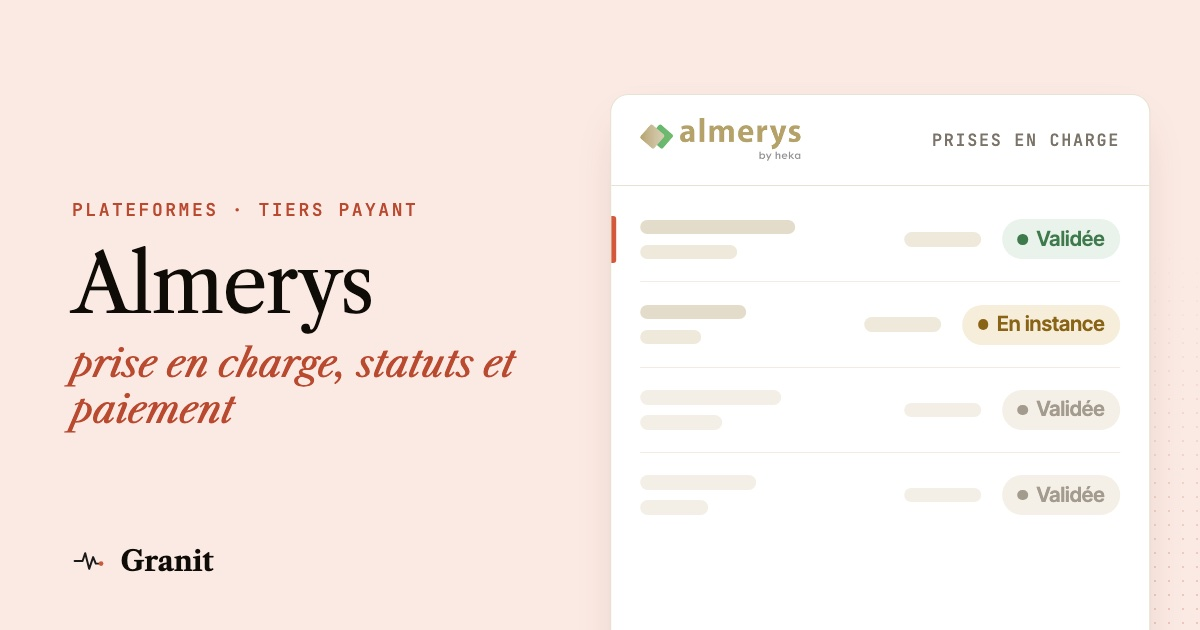
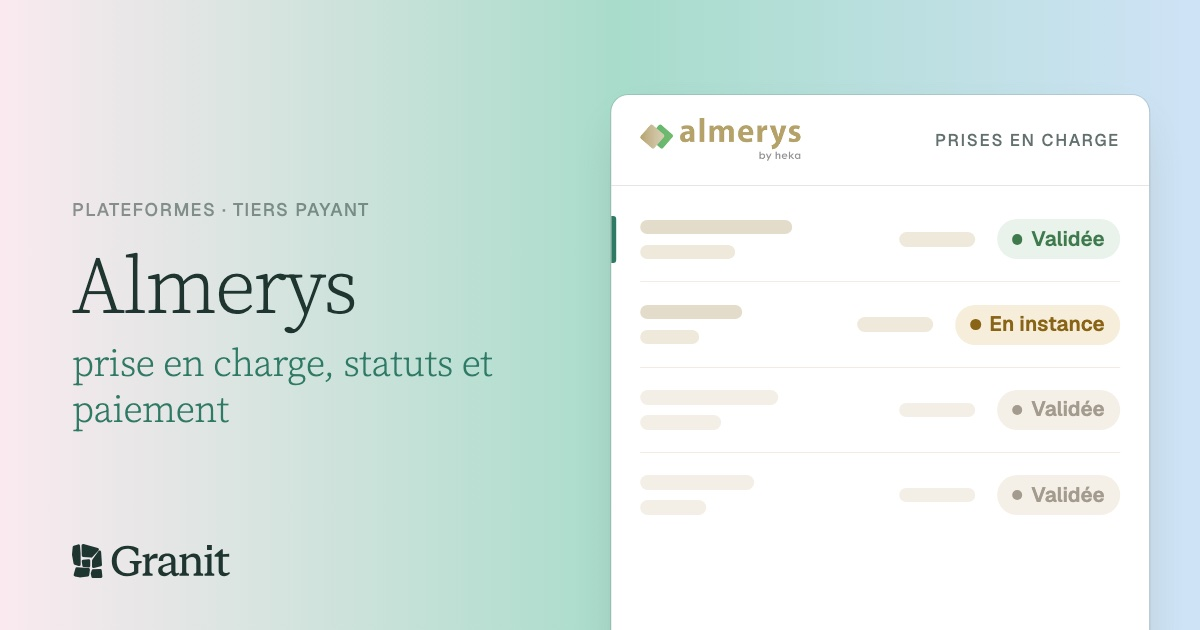
Marque : générateurs, démo et fichiers hors React (bascule 5/5) (#99)
* Marque : jetons, polices, logo et favicon (bascule 1/5)

- styles.css : jetons de DESIGN.md (couleurs, ombres teintées encre, rayons),
  neutres corrigés à leur définition (--bg rosé, --bg2 lavis, --text-muted 70 %,
  --border2 filet-champ…), Source Serif 4 (opsz 20) et Geist, --font-mono sur Geist
  avec chiffres tabulaires, classes de marque (.btn-primary encre et menthe, .eyebrow,
  .accent-italic sans italique, .h1-hero et .h2-section en 300), ombres Tailwind
  et couleurs shadcn sur la marque.
- Alias de transition pour les anciennes variables (--terra*, --sage*, --tag-bg,
  --gradient-terra, --shadow-*), supprimés en fin de bascule.
- CSS mort retiré (.hand, .underline-terra, .glass*, .shimmer, .mesh-bg, .grain,
  .marquee, .btn-ghost, .float-slow, .mark-terra, --gradient-mesh, --dark, --font-hand).
- Logos, favicon, icônes, image de partage et tuile de signature copiés tels quels
  depuis internal/marque.
- __root.tsx : une seule feuille Google Fonts (Geist + Source Serif 4), favicon et
  icônes, og:image et twitter:image sur l'image de partage de la marque.
- DESIGN.md : report du jeton filet-champ (internal a763cc7).

* Marque : générateurs, démo et fichiers hors React

- public/demo.html : jetons DESIGN.md dans son :root (rosé, papier, filet, encre,
  profond, succès, attente lavis + encre, alerte), Geist seule, logo granit-logo.svg
  copié tel quel à la place du monogramme et du nom tapé.
[…]

diff --git a/public/demo.html b/public/demo.html
@@ -6,25 +6,30 @@
 <meta name="robots" content="noindex">
 <title>Granit AI</title>
 <link rel="preconnect" href="https://fonts.googleapis.com">
-<link href="https://fonts.googleapis.com/css2?family=Inter+Tight:wght@400;500;600;700&family=JetBrains+Mono:wght@400;500&family=Libre+Caslon+Text:wght@400;700&display=swap" rel="stylesheet">
+<link rel="preconnect" href="https://fonts.gstatic.com" crossorigin>
+<link href="https://fonts.googleapis.com/css2?family=Geist:wght@400;500;600&display=swap" rel="stylesheet">
 <style>
 *,*::before,*::after{box-sizing:border-box;margin:0;padding:0;}
 :root{
-  --bg:#f7f3ec;--surface:#ffffff;--border:#e8e2d3;
-  --text:#0f0c08;--text2:#3a342d;--text3:#7a7368;--accent:#d4583a;
-  --blue:#c0503a;--blue-bg:#fbe8e0;--blue-b:#f0c8ba;
-  --green:#4f8a5f;--green-bg:#e4efe6;--green-b:#c3ddc9;
-  --amber:#b7791f;--amber-bg:#f7efdd;--amber-b:#e8d5a6;
-  --red:#c0392b;--red-bg:#faeae7;--red-b:#eec6bf;
-  --mono:'JetBrains Mono',ui-monospace,monospace;--sans:'Inter Tight',system-ui,sans-serif;
+  /* Jetons de DESIGN.md (marque Granit). Les noms historiques restent, leur valeur suit le rôle. */
+  --bg:#FAF0F2;--surface:#FFFDFD;--border:rgba(31,53,48,.12);
+  --text:#1F3530;--text2:rgba(31,53,48,.70);--text3:rgba(31,53,48,.50);--accent:#2F7A64;
+  /* « blue » = l'accent de la démo (activité en cours, sélection) : vert profond, pastille succès-fond */
+  --blue:#2F7A64;--blue-bg:rgba(168,220,203,.60);--blue-b:#A8DCCB;
+  /* succès : forme profond, pastille succès-fond + succès-texte */
+  --green:#2F7A64;--green-t:#1D5646;--green-bg:rgba(168,220,203,.60);--green-b:#A8DCCB;
+  /* en attente : lavis + encre (cas 3) */
+  --amber:#1F3530;--amber-bg:#F4EEF0;--amber-b:rgba(31,53,48,.20);
+  /* erreur : bordure alerte, texte alerte-texte */
+  --red:#A9433D;--red-bg:#FAEAEF;--red-b:#C8504A;
+  --mono:"Geist",system-ui,-apple-system,"Segoe UI",sans-serif;--sans:"Geist",system-ui,-apple-system,"Segoe UI",sans-serif;
 }
 *,*::before,*::after{box-sizing:border-box;margin:0;padding:0;}
-body{font-family:var(--sans);background:var(--bg);color:var(--text);font-size:13px;height:100vh;overflow:hidden;display:flex;flex-direction:column;-webkit-font-smoothing:antialiased;}
+body{font-family:var(--sans);font-variant-numeric:tabular-nums;background:var(--bg);color:var(--text);font-size:13px;height:100vh;overflow:hidden;display:flex;flex-direction:column;-webkit-font-smoothing:antialiased;}
 
 header{height:52px;background:var(--surface);border-bottom:1px solid var(--border);display:flex;align-items:center;padding:0 20px;gap:14px;flex-shrink:0;}
-.logo{font-family:'Libre Caslon Text','Times New Roman',serif;font-size:19px;font-weight:700;color:var(--text);letter-spacing:-.01em;display:flex;align-items:center;gap:9px;}
-.logo-mark{width:28px;height:26px;display:flex;align-items:center;justify-content:center;}
-.logo-mark svg{width:28px;height:auto;}
+.logo{display:flex;align-items:center;}
+.logo svg{display:block;height:24px;width:auto;}
 .hdiv{width:1px;height:16px;background:var(--border);}
 .client-tag{font-size:12px;color:var(--text2);font-family:var(--mono);}
 
@@ -46,8 +51,8 @@ nav{width:210px;flex-shrink:0;background:var(--surface);border-right:1px solid v
 .nlbl{flex:1;font-size:12.5px;font-weight:500;color:var(--text);}
 .ni.active .nlbl{color:var(--blue);}
 .nc{font-family:var(--mono);font-size:10px;font-weight:500;padding:2px 6px;border-radius:4px;}
-.nc.b{background:var(--blue-bg);color:var(--blue);}
-.nc.g{background:var(--green-bg);color:var(--green);}
+.nc.b{background:var(--blue-bg);color:var(--green-t);}
+.nc.g{background:var(--green-bg);color:var(--green-t);}
 .nc.a{background:var(--amber-bg);color:var(--amber);}
 
 .content{flex:1;overflow:hidden;display:flex;flex-direction:column;}
@@ -58,7 +63,7 @@ nav{width:210px;flex-shrink:0;background:var(--surface);border-right:1px solid v
 .ahead{background:var(--surface);border-bottom:1px solid var(--border);padding:11px 20px;display:flex;align-items:center;gap:11px;flex-shrink:0;}
 .aicon{width:30px;height:30px;border-radius:6px;background:var(--bg);border:1px solid var(--border);display:flex;align-items:center;justify-content:center;color:var(--text2);flex-shrink:0;}
 .atitle{font-size:14px;font-weight:600;color:var(--text);}
-.adesc{font-size:11px;color:var(--text3);font-family:var(--mono);margin-top:1px;}
+.adesc{font-size:11px;color:var(--text2);font-family:var(--mono);margin-top:1px;}
 .aright{margin-left:auto;display:flex;align-items:center;gap:7px;}
 .stag{display:flex;align-items:center;gap:5px;font-family:var(--mono);font-size:11px;padding:3px 9px;border-radius:4px;border:1px solid;}
 .stag.r{color:var(--blue);background:var(--blue-bg);border-color:var(--blue-b);}
@@ -71,24 +76,24 @@ nav{width:210px;flex-shrink:0;background:var(--surface);border-right:1px solid v
 .klbl{font-family:var(--mono);font-size:10px;color:var(--text3);letter-spacing:.05em;text-transform:uppercase;margin-bottom:5px;}
 .kv{font-family:var(--mono);font-size:19px;font-weight:500;letter-spacing:-.02em;color:var(--text);}
 .kv.b{color:var(--blue);}.kv.g{color:var(--green);}.kv.a{color:var(--amber);}
-.kd{font-size:11px;color:var(--text3);margin-top:3px;}
+.kd{font-size:11px;color:var(--text2);margin-top:3px;}
 .kd.up{color:var(--green);}.kd.dn{color:var(--red);}
 
 .tbar{background:var(--surface);border-bottom:1px solid var(--border);padding:9px 20px;display:flex;align-items:center;justify-content:space-between;flex-shrink:0;}
 .tbar-t{font-family:var(--mono);font-size:10px;color:var(--text3);letter-spacing:.1em;text-transform:uppercase;}
-.tbar-r{font-family:var(--mono);font-size:11px;color:var(--text3);}
-.tbar-r b{color:var(--text2);font-weight:500;}
+.tbar-r{font-family:var(--mono);font-size:11px;color:var(--text2);}
+.tbar-r b{color:var(--text);font-weight:500;}
 
 .tarea{flex:1;overflow-y:auto;}
 table{width:100%;border-collapse:collapse;background:var(--surface);}
 thead th{font-family:var(--mono);font-size:10px;color:var(--text3);letter-spacing:.07em;text-transform:uppercase;padding:8px 14px;text-align:left;background:var(--bg);border-bottom:1px solid var(--border);white-space:nowrap;position:sticky;top:0;z-index:1;}
 tbody td{padding:10px 14px;border-bottom:1px solid var(--border);color:var(--text);font-size:13px;}
 tbody tr:last-child td{border-bottom:none;}
-tbody tr:hover td{background:#FAFBFC;}
+tbody tr:hover td{background:var(--bg);}
 .mono{font-family:var(--mono);font-size:11.5px;}
 .chip{display:inline-flex;align-items:center;gap:4px;font-family:var(--mono);font-size:10px;font-weight:500;padding:2px 7px;border-radius:4px;border:1px solid;white-space:nowrap;}
 .chip.b{background:var(--blue-bg);color:var(--blue);border-color:var(--blue-b);}
-.chip.g{background:var(--green-bg);color:var(--green);border-color:var(--green-b);}
+.chip.g{background:var(--green-bg);color:var(--green-t);border-color:var(--green-b);}
 .chip.a{background:var(--amber-bg);color:var(--amber);border-color:var(--amber-b);}
 .chip.r{background:var(--red-bg);color:var(--red);border-color:var(--red-b);}
 .chip.x{background:var(--bg);color:var(--text2);border-color:var(--border);}
@@ -108,10 +113,7 @@ tbody tr:hover td{background:#FAFBFC;}
 <body>
 
 <header>
-  <div class="logo">
-    <div class="logo-mark"><svg xmlns="http://www.w3.org/2000/svg" viewBox="0 0 56 52" fill="none"><path d="M4 26 L16 26 L20 14 L26 38 L32 20 L36 30 L44 30" stroke="#1A1A1A" stroke-width="3" stroke-linecap="round" stroke-linejoin="round" fill="none"/><circle cx="44" cy="30" r="3.5" fill="#C85C3C"/></svg></div>
-    Granit
-  </div>
+  <div class="logo"><svg xmlns="http://www.w3.org/2000/svg" viewBox="0 0 445.733 96.048" width="445.733" height="96.048" role="img" aria-label="Granit"><title>Granit</title><g transform="translate(0 0) scale(0.55324) translate(-9.795 -7.775)" stroke-width="15.67" stroke-linejoin="round"><path transform="translate(66.27 15.61)" d="M0 0 L72.866 19.8162 L41.8522 53.8986 L1.17526 51.2869 Z" fill="#1F3530" stroke="#1F3530"/><path transform="translate(119.58 49.13)" d="M30.9485 0 L0.195878 43.1907 L0 73.5189 L35.3557 65.2594 Z" fill="#1F3530" stroke="#1F3530"/><path transform="translate(67.25 93.07)" d="M27.7818 0 L27.7165 26.8024 L3.13402 24.3213 L0 2.4811 Z" fill="#1F3530" stroke="#1F3530"/><path transform="translate(26.02 134.66)" d="M67.4467 3.85223 L8.58591 0 L0 30.8505 L22.7217 35.7801 L63.9536 30.8505 Z" fill="#1F3530" stroke="#1F3530"/><path transform="translate(17.63 17.43)" d="M28.5979 94.8368 L7.8677 88.4055 L0 45.2148 L3.29725 7.34536 L25.3007 0 L28.1409 36.7921 Z" fill="#1F3530" stroke="#1F3530"/><path transform="translate(113.32 142.7)" d="M4.17869 2.18728 L40.2526 0 L43.5172 30.3935 L3.00343 30.8505 L0 15.311 Z" fill="#1F3530" stroke="#1F3530"/></g><g transform="translate(-389.538 -133.296)" fill="#1F3530"><path d="M544.318 224.16C519.598 224.16 501.718 206.76 501.718 181.2C501.718 155.76 520.798 138.48 546.358 138.48C558.598 138.48 569.638 142.44 576.718 146.16V165.6H570.838C567.718 153.48 558.118 146.52 545.998 146.52C527.398 146.52 515.518 159.6 515.518 180.72C515.518 202.32 527.998 216.12 545.878 216.12C553.678 216.12 561.118 213.24 564.598 210.24V194.04C564.598 188.4 560.758 187.8 552.598 187.32V181.44H585.958V187.32C579.718 187.8 576.598 188.4 576.598 194.04V214.92C569.998 219.36 557.398 224.16 544.318 224.16Z"/><path d="M588.807 217.08C593.247 216.6 596.367 216 596.367 210.36V171.24L588.447 168.84V164.76L605.607 160.56H607.767V175.8C611.127 166.44 618.087 160.68 627.447 160.68C628.887 160.68 630.087 160.8 630.927 160.92V174.24C629.367 174 627.567 173.88 625.647 173.88C617.127 173.88 611.487 177.12 608.127 183.72V210.36C608.127 216 611.727 216.72 616.887 217.08V222.72H588.807V217.08Z"/><path d="M649.471 224.16C639.391 224.16 632.671 217.32 632.671 208.2C632.671 199.08 638.311 194.4 650.191 190.92L669.511 185.28V179.4C669.511 171.72 665.431 167.4 658.351 167.4C651.391 167.4 646.591 171.36 646.591 179.16V181.56H634.351V179.76C634.351 166.92 644.911 160.08 658.711 160.08C672.271 160.08 681.271 167.76 681.271 179.4V210.12C681.271 213.96 682.591 215.88 685.831 215.88C687.271 215.88 688.831 215.52 690.511 214.56L692.191 217.32C689.191 221.88 684.751 224.16 680.191 224.16C673.711 224.16 670.471 219.72 669.751 213.84C663.631 220.56 656.911 224.16 649.471 224.16ZM655.111 214.92C660.511 214.92 665.671 212.16 669.511 208.68V190.92L655.831 195.36C649.231 197.4 644.791 199.8 644.791 205.68C644.791 211.32 648.991 214.92 655.111 214.92Z"/><path d="M692.584 217.08C697.024 216.6 700.144 216 700.144 210.36V171.24L692.224 168.84V164.76L709.624 160.56H711.784V171.48C716.704 164.76 724.504 160.08 733.384 160.08C744.424 160.08 751.984 167.88 751.984 180.84V210.36C751.984 216 755.104 216.6 759.544 217.08V222.72H732.664V217.08C737.104 216.6 740.224 216 740.224 210.36V182.52C740.224 175.08 735.904 170.16 727.984 170.16C721.624 170.16 715.984 173.4 711.904 177.96V210.36C711.904 216 715.024 216.6 719.464 217.08V222.72H692.584V217.08Z"/><path d="M763.512 217.08C768.072 216.6 771.312 216 771.312 210.36V171.24L763.032 168.84V164.76L780.912 160.56H783.072V210.36C783.072 216 786.312 216.6 790.872 217.08V222.72H763.512V217.08ZM770.472 150V135.84H784.032V150H770.472Z"/><path d="M818.351 224.16C808.871 224.16 803.231 218.16 803.231 209.04V169.2H791.831V164.04L811.031 148.32H814.991V162.12L832.991 161.04V169.2H814.991V205.92C814.991 211.92 818.351 215.16 823.871 215.16C827.231 215.16 830.711 213.96 832.871 212.16L835.271 215.88C830.471 221.28 824.591 224.16 818.351 224.16Z"/></g></svg></div>
   <div class="hdiv"></div>
   <span class="client-tag">Optique</span>
 </header>

diff --git a/src/lib/webinarMail.ts b/src/lib/webinarMail.ts
@@ -4,7 +4,20 @@ import { MEET_TEL, MEET_URL } from "@/lib/webinarIa";
 /**
  * Contenu du mail de confirmation du webinar (HTML et texte brut), séparé de
  * l'envoi (webinarConfirmation.ts) pour pouvoir le relire hors du serveur.
+ *
+ * Marque (DESIGN.md) : un mail n'a pas de police web (Helvetica/Arial pour le texte) et gère mal la
+ * transparence, donc les jetons sont en hex pleins. Les deux valeurs calculées sont des jetons
+ * aplatis sur le papier : #62716E = texte-secondaire (encre à 70 %), #E4E5E4 = filet (encre à 12 %).
  */
+const MAIL = {
+  fond: "#FAF0F2", // rosé
+  carte: "#FFFDFD", // papier
+  encadre: "#FAEAEF", // blush (forme : fond de l'encadré date)
+  texte: "#1F3530", // encre
+  secondaire: "#62716E", // texte-secondaire sur papier
+  filet: "#E4E5E4", // filet sur papier
+  lien: "#2F7A64", // profond
+};
 
 export const OBJET = "C'est noté : webinar IA en magasin, jeudi 26 novembre à 13h15";
 
@@ -43,23 +56,23 @@ export function corpsTexte(prenom: string) {
 
 export function corpsHtml(prenom: string) {
   const lien = (href: string, texte: string) =>
-    `<a href="${echapper(href)}" style="display:inline-block;padding:10px 16px;margin:0 6px 8px 0;border:1px solid #e3d9cf;border-radius:999px;color:#1a1612;text-decoration:none;font-weight:600;font-size:14px">${texte}</a>`;
-  return `<!doctype html><html lang="fr"><body style="margin:0;background:#f6f1ec;font-family:-apple-system,BlinkMacSystemFont,'Segoe UI',Roboto,Arial,sans-serif;color:#1a1612">
+    `<a href="${echapper(href)}" style="display:inline-block;padding:10px 16px;margin:0 6px 8px 0;border:1px solid ${MAIL.filet};border-radius:999px;color:${MAIL.texte};text-decoration:none;font-weight:600;font-size:14px">${texte}</a>`;
+  return `<!doctype html><html lang="fr"><body style="margin:0;background:${MAIL.fond};font-family:Helvetica,Arial,sans-serif;color:${MAIL.texte}">
 <div style="max-width:560px;margin:0 auto;padding:28px 20px">
-<div style="background:#ffffff;border-radius:16px;padding:28px 24px">
+<div style="background:${MAIL.carte};border-radius:14px;padding:28px 24px">
 <p style="margin:0 0 16px;font-size:15px">${echapper(bonjour(prenom))}</p>
 <p style="margin:0 0 18px;font-size:15px;line-height:1.55">C'est noté, votre place est réservée pour le webinar <strong>« 5 usages concrets de l'IA pour gagner du temps en magasin »</strong>.</p>
-<p style="margin:0 0 18px;padding:14px 16px;background:#fdf0e8;border-radius:12px;font-size:15px;line-height:1.5">📅 <strong>Jeudi 26 novembre, 13h15 – 14h</strong><br>45 min · en ligne · gratuit</p>
-<p style="margin:0 0 18px;font-size:14.5px;line-height:1.55;color:#4a423b">Au programme : analyser vos avis Google, créer vos modèles de mails, suivre vos impayés mutuelles à partir d'un export Excel… et deux surprises gardées pour la fin.</p>
+<p style="margin:0 0 18px;padding:14px 16px;background:${MAIL.encadre};border-radius:12px;font-size:15px;line-height:1.5"><strong>Jeudi 26 novembre, 13h15 – 14h</strong><br>45 min · en ligne · gratuit</p>
+<p style="margin:0 0 18px;font-size:14.5px;line-height:1.55;color:${MAIL.secondaire}">Au programme : analyser vos avis Google, créer vos modèles de mails, suivre vos impayés mutuelles à partir d'un export Excel… et deux surprises gardées pour la fin.</p>
 <p style="margin:0 0 18px;font-size:14.5px;line-height:1.55">${
     MEET_URL
-      ? `Lien de connexion : <a href="${echapper(MEET_URL)}" style="color:#d9583f">${echapper(MEET_URL)}</a>`
+      ? `Lien de connexion : <a href="${echapper(MEET_URL)}" style="color:${MAIL.lien}">${echapper(MEET_URL)}</a>`
       : "Le lien de connexion vous sera envoyé par mail avant le webinar."
-  }<br><span style="font-size:13px;color:#7a7067">Ou par téléphone : ${echapper(MEET_TEL)}</span></p>
+  }<br><span style="font-size:13px;color:${MAIL.secondaire}">Ou par téléphone : ${echapper(MEET_TEL)}</span></p>
 <p style="margin:0 0 10px;font-size:14.5px;font-weight:600">Ajoutez-le à votre agenda :</p>
-<div>${lien(lienGoogle(), "📅 Google Agenda")}${lien(lienOutlook(), "Outlook")}</div>
-<p style="margin:4px 0 18px;font-size:13px;color:#7a7067">Apple / iPhone : ouvrez l'invitation jointe à ce mail.</p>
-<p style="margin:0 0 18px;font-size:14.5px;line-height:1.55;color:#4a423b">Vous ne pourrez pas être là ? Pas de souci, le replay vous sera envoyé.</p>
-<p style="margin:0;font-size:15px;line-height:1.5">À jeudi 26,<br>Paul<br><span style="color:#7a7067">Granit</span></p>
+<div>${lien(lienGoogle(), "Google Agenda")}${lien(lienOutlook(), "Outlook")}</div>
+<p style="margin:4px 0 18px;font-size:13px;color:${MAIL.secondaire}">Apple / iPhone : ouvrez l'invitation jointe à ce mail.</p>
+<p style="margin:0 0 18px;font-size:14.5px;line-height:1.55;color:${MAIL.secondaire}">Vous ne pourrez pas être là ? Pas de souci, le replay vous sera envoyé.</p>
+<p style="margin:0;font-size:15px;line-height:1.5">À jeudi 26,<br>Paul<br><span style="color:${MAIL.secondaire}">Granit</span></p>
 </div></div></body></html>`;
 }

diff --git a/src/lib/seo.ts b/src/lib/seo.ts
@@ -8,7 +8,7 @@ export const organizationLd = {
   name: "Granit",
   alternateName: "getgranit",
   url: SITE_URL,
-  logo: `${SITE_URL}/favicon.svg`,
+  logo: `${SITE_URL}/granit-logo-1200.png`,
   description:
     "Granit déploie des agents IA qui automatisent le back-office administratif des établissements de santé — tiers-payant, facturation, traitement des rejets, recouvrement.",
   email: "contact@getgranit.ai",
@@ -53,7 +53,7 @@ export function articleLd(opts: { title: string; description: string; slug: stri
     publisher: {
       "@type": "Organization",
       name: "Granit",
-      logo: { "@type": "ImageObject", url: `${SITE_URL}/favicon.svg` },
+      logo: { "@type": "ImageObject", url: `${SITE_URL}/granit-logo-1200.png` },
     },
   };
   const breadcrumb = {

diff --git a/src/lib/ressources/seo.ts b/src/lib/ressources/seo.ts
@@ -48,7 +48,7 @@ export function blogPostingLd(a: RessourceJson, p: Plateforme | null) {
     publisher: {
       "@type": "Organization",
       name: "Granit",
-      logo: { "@type": "ImageObject", url: `${SITE_URL}/favicon.svg` },
+      logo: { "@type": "ImageObject", url: `${SITE_URL}/granit-logo-1200.png` },
     },
     citation: a.sources?.length ? a.sources.map((s) => s.url) : undefined,
     about: p

diff --git a/scripts/seo-engine/GABARIT_ARTICLE_granit.md b/scripts/seo-engine/GABARIT_ARTICLE_granit.md
@@ -46,7 +46,7 @@ Les piliers (`level` commence par « Pilier ») utilisent le type de leur catég
 | 2 | Sous-navigation du guide | Moteur (liste des catégories) | « Tout le guide » + une pastille par catégorie + Glossaire. Défile horizontalement sur mobile |
 | 3 | En-tête teinté | Moteur | Fond = teinte de la catégorie (section 9). Contient les blocs 4 à 6 |
 | 4 | Fil d'Ariane | Moteur | Accueil › Ressources › {Catégorie} › {Titre}. Tous cliquables sauf le dernier. Balisé `BreadcrumbList` |
-| 5 | H1 | File (`title`) | Le titre de la file, tel quel. Plateforme : logo à gauche du H1 (64 px, fond blanc, bord fin) si `logo` est renseigné, sinon monogramme (initiale sur la couleur de la catégorie) |
+| 5 | H1 | File (`title`) | Le titre de la file, tel quel. Plateforme : logo à gauche du H1 (64 px, fond papier, bord fin) si `logo` est renseigné, sinon monogramme (initiale sur la couleur de la catégorie) |
 | 6 | Signature | Moteur | Photo + nom + fonction de l'auteur · « Relu par {reviewer} » si renseigné · « Mis à jour le {dateModified} » · temps de lecture. Plateforme : « Informations relevées le {checkedOn} » remplace « Mis à jour le » |
 | 7 | Ouverture | Claude (`contentHtml`) | La réponse directe, phrase clé en gras. Pas de couverture au-dessus : la réponse doit être visible sans défiler |
 | 8 | « L'essentiel » | Claude (`contentHtml`) | 3 à 5 puces, juste après l'ouverture |
@@ -259,17 +259,19 @@ Le moteur refuse l'article (et réessaie une fois) si :
 
 ## 9. Repères visuels
 
-Charte du site existant : titres en Libre Caslon Text, texte en Inter Tight, étiquettes en JetBrains Mono, accent terracotta `#d4583a`, fonds `#ffffff` et `#faf6ee`. Colonne de texte limitée à 68 caractères environ.
+Charte Granit (`DESIGN.md` à la racine du dépôt, copie de `internal/marque`) : titres en Source Serif 4 (réglage `"opsz" 20`, graisse 300 pour les grands titres, 400 pour les sous-titres, jamais de gras ni d'italique), texte et étiquettes en Geist (chiffres tabulaires, plus de police mono). Fond de page rosé `#FAF0F2`, cartes papier `#FFFDFD` (jamais de blanc pur), sections alternées lavis `#F4EEF0`, texte encre `#1F3530`, liens et accent de titre en vert profond `#2F7A64` (l'accent passe par la couleur, pas par l'italique). Aucune autre couleur. Colonne de texte limitée à 68 caractères environ.
+
+Les catégories ne se distinguent plus par la couleur mais par leur nom : toutes prennent la même paire, profond pour le texte, les filets et les numéros, lavis pour le fond d'en-tête (valeurs dans `src/lib/ressources/categories.json`).
 
 | Catégorie | Couleur (texte) | Teinte (fond d'en-tête) | Titre de la carte agent |
 |---|---|---|---|
-| `guide-tiers-payant` | `#3f7a4d` | `#e9f2eb` | L'agent dépose vos prises en charge |
-| `plateformes` | `#b94a2f` | `#fbeae3` | L'agent dépose vos PEC {nom de la plateforme} |
-| `rejets` | `#8a6416` | `#f6eedb` | L'agent vérifie la plateforme avant l'envoi |
-| `paiements` | `#3e5f84` | `#e6ecf4` | L'agent rapproche vos virements chaque matin |
-| `gerer-son-tiers-payant` | `#7a4a74` | `#f3e9f1` | L'agent dépose vos prises en charge |
-| `conformite` | `#2f6f75` | `#e2f0f1` | L'agent dépose vos prises en charge |
-| `glossaire` | `#5e574b` | `#f1ede5` | L'agent dépose vos prises en charge |
+| `guide-tiers-payant` | `#2F7A64` | `#F4EEF0` | L'agent dépose vos prises en charge |
+| `plateformes` | `#2F7A64` | `#F4EEF0` | L'agent dépose vos PEC {nom de la plateforme} |
+| `rejets` | `#2F7A64` | `#F4EEF0` | L'agent vérifie la plateforme avant l'envoi |
+| `paiements` | `#2F7A64` | `#F4EEF0` | L'agent rapproche vos virements chaque matin |
+| `gerer-son-tiers-payant` | `#2F7A64` | `#F4EEF0` | L'agent dépose vos prises en charge |
+| `conformite` | `#2F7A64` | `#F4EEF0` | L'agent dépose vos prises en charge |
+| `glossaire` | `#2F7A64` | `#F4EEF0` | L'agent dépose vos prises en charge |
 
 Le titre de la carte agent « plateformes » n'est utilisé que si la plateforme fait partie de celles que Granit traite (`granitData`). Sinon : « L'agent dépose vos prises en charge ».
 
